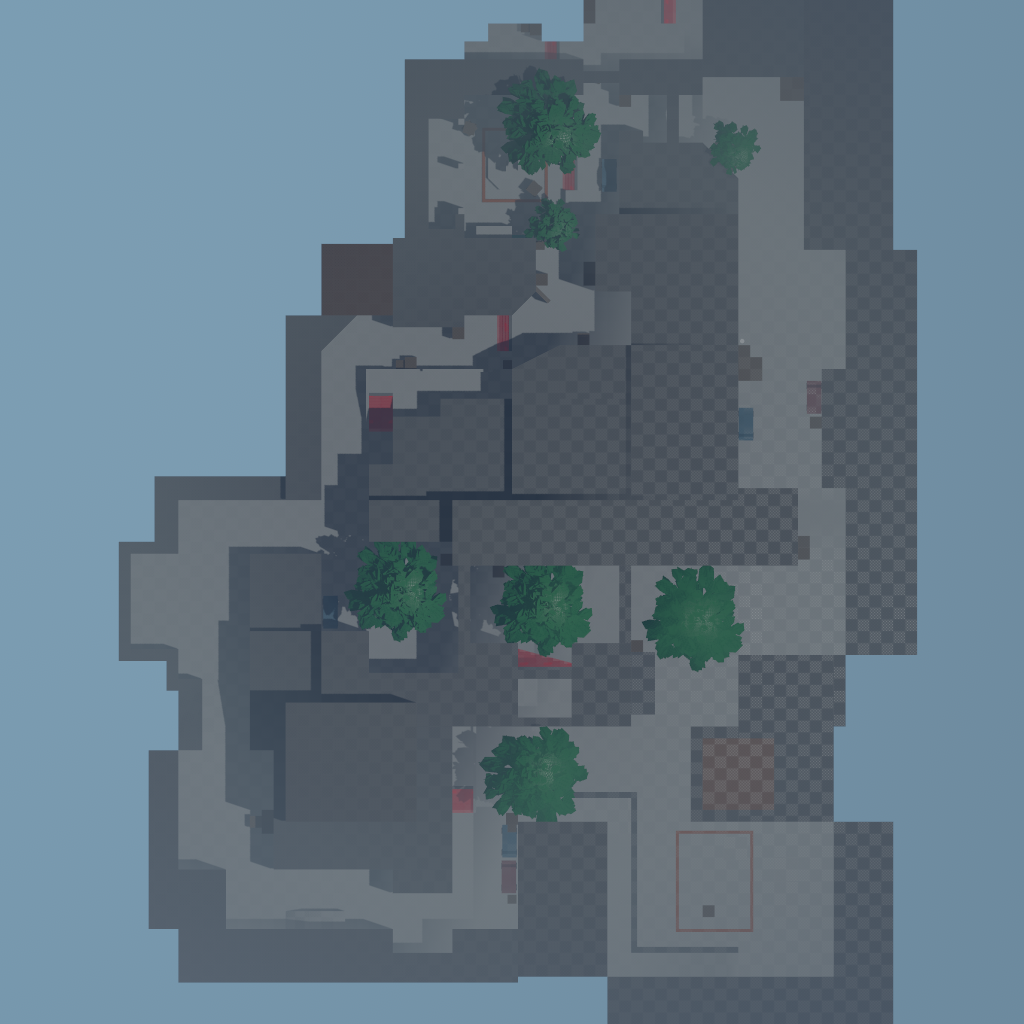
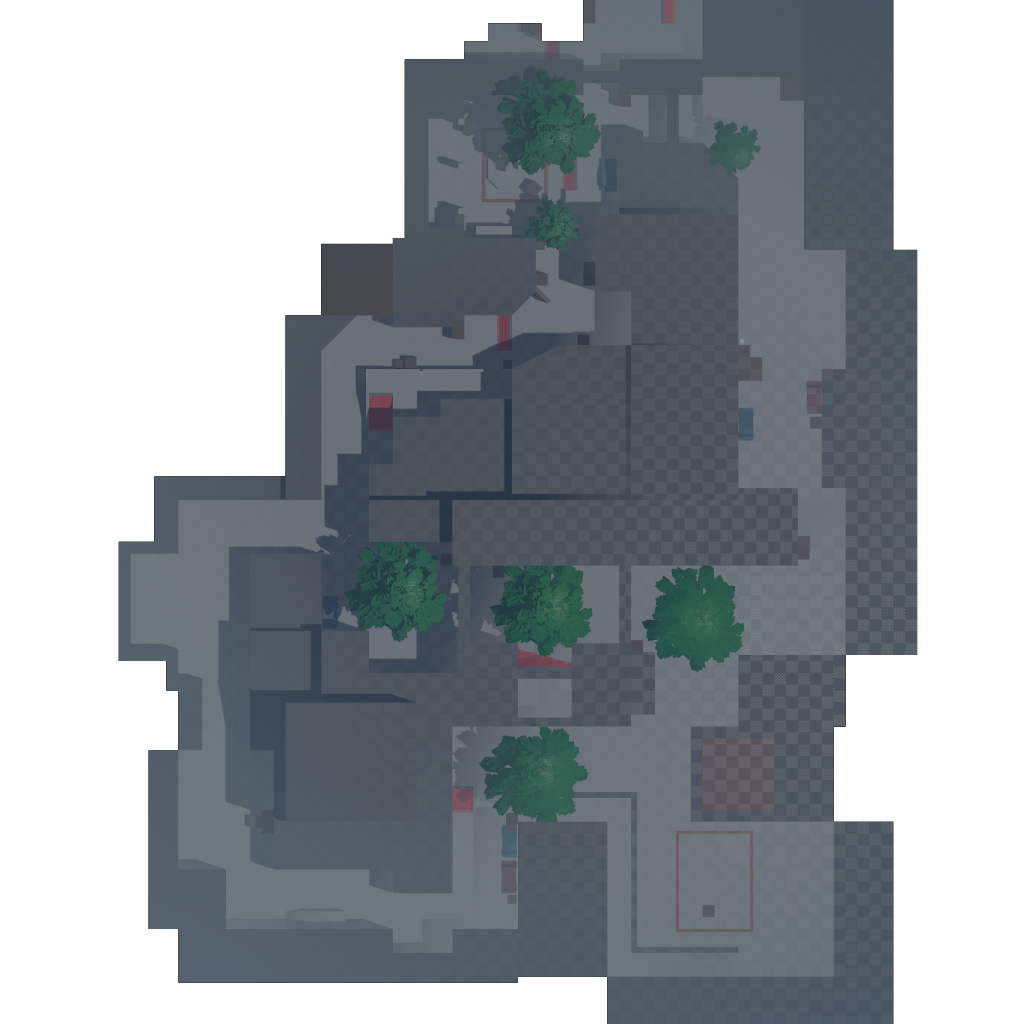
Don't render sky in minimap capture + styling

diff --git a/Code/UI/HUD/Minimap/Minimap.razor.scss b/Code/UI/HUD/Minimap/Minimap.razor.scss
@@ -20,6 +20,16 @@
         background-position: center;
     }
 
+    .overlay {
+        position: absolute;
+        mix-blend-mode:lighten;
+        width: 100%;
+        height: 100%;
+        background-size: contain;
+        background-position: center;
+        background-image-tint: rgba( 0, 255, 0, 0.5 );
+    }
+
     .markers {
         position: absolute;
         width: 100%;
@@ -91,7 +101,7 @@
 
             .buyzone {
                 position: absolute;
-                background-color: rgb(89, 161, 112, 0.50);
+                background-color: rgb(255, 255, 255, 0.10);
                 background-size: contain;
                 background-position: center;
                 z-index: 15;

diff --git a/Code/Minimap/MinimapRenderer.cs b/Code/Minimap/MinimapRenderer.cs
@@ -54,9 +54,11 @@ public partial class MinimapRenderer : Component, Component.ExecuteInEditor
 		CameraGameObject.Flags = GameObjectFlags.NotSaved | GameObjectFlags.Hidden;
 
 		Camera = CameraGameObject.Components.Create<CameraComponent>();
+		Camera.RenderExcludeTags.Add( "skybox" );
 		Camera.Flags = ComponentFlags.NotSaved;
 		Camera.Orthographic = true;
 		Camera.OrthographicHeight = Size;
+		Camera.BackgroundColor = Color.Transparent;
     }
 
 	protected override void OnUpdate()
